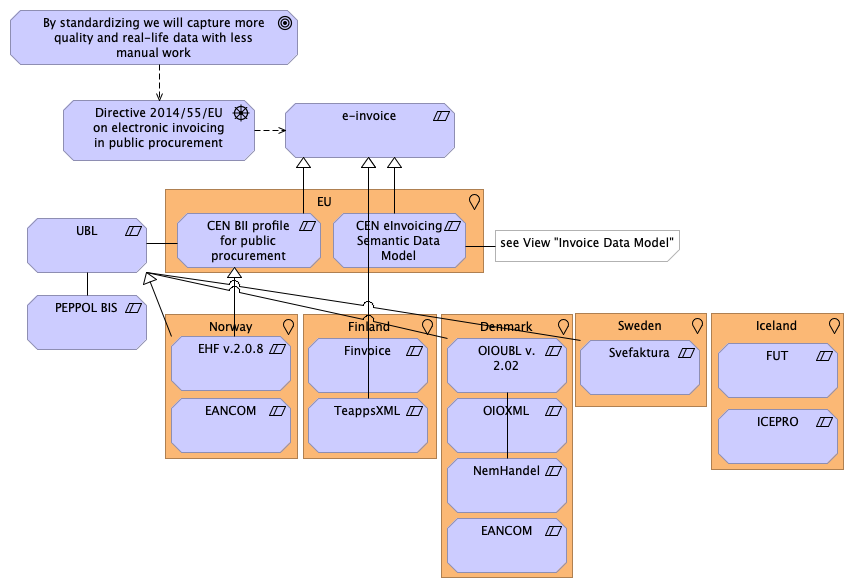
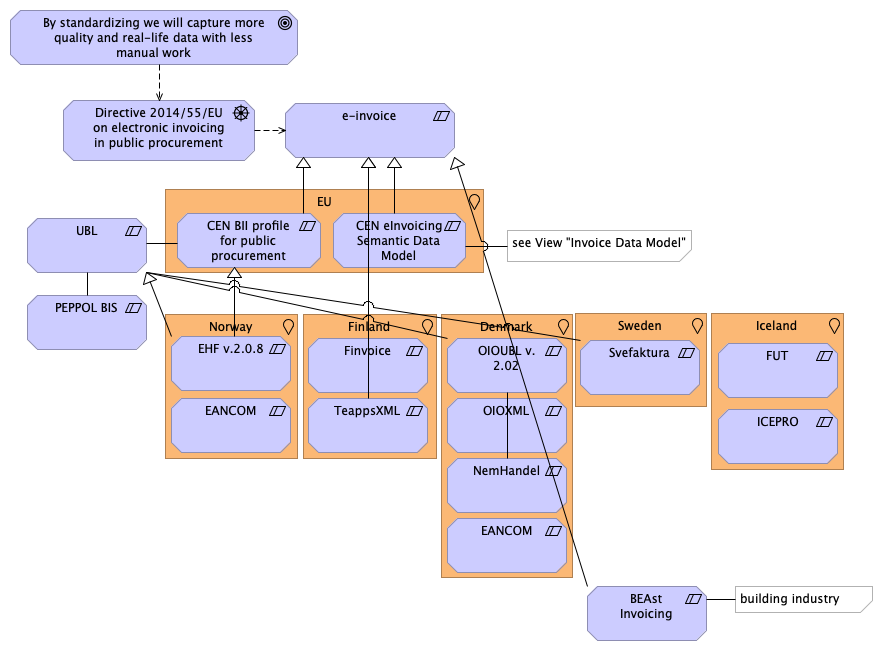
documentation

diff --git a/docs/54e87e47-f01c-49fe-af55-2068f4564bd2/elements/9eea69fc-1468-4fe2-b650-b7767d7006e6.html b/docs/54e87e47-f01c-49fe-af55-2068f4564bd2/elements/9eea69fc-1468-4fe2-b650-b7767d7006e6.html
@@ -1,0 +1,69 @@
+<!DOCTYPE HTML PUBLIC "-//W3C//DTD HTML 4.01 Transitional//EN" "http://www.w3.org/TR/html4/loose.dtd">
+<html class="frame" lang="en">
+<head>
+	<meta http-equiv="Content-Type" content="text/html;charset=utf-8">
+	<title></title>
+
+	<!-- JQUERY (use 1.x branch to be compatible with IE 6/7/8) -->
+	<script type="text/javascript" src="../../lib/jquery/js/jquery-1.11.2.min.js"></script>
+	<!-- BOOTSTRAP -->
+	<link type="text/css" rel="stylesheet" href="../../lib/bootstrap/css/bootstrap-3.3.2.min.css">
+	<link type="text/css" rel="stylesheet" href="../../lib/bootstrap/css/bootstrap-theme-3.3.2.min.css">
+	<script type="text/javascript" src="../../lib/bootstrap/js/bootstrap-3.3.2.min.js"></script>
+	<!-- REPORT SPECIFIC -->
+	<link type="text/css" rel="stylesheet" href="../../css/model.css">
+	<link type="text/css" rel="stylesheet" href="../../css/i18n.css">
+	<script type="text/javascript" src="../../js/frame.js"></script>
+	<script type="text/javascript" src="../../js/imageMapResizer.min.js"></script>
+</head>
+
+<body>
+	<div class="panel panel-default root-panel">
+		<div class="panel-heading root-panel-heading">
+			<b></b>
+			(<span class="i18n-elementtype-SpecializationRelationship"></span>)
+			<a class="glyphicon glyphicon-info-sign" id="hint-SpecializationRelationship" target="hint"></a>
+		</div>
+		<div class="panel-body root-panel-body">
+			<div role="tabpanel">
+				<!-- Nav tabs -->
+				<ul class="nav nav-tabs" role="tablist">
+					<li role="presentation" class="active"><a href="#documentation" aria-controls="documentation" role="tab" data-toggle="tab" class="i18n-documentation"></a></li>
+					<li role="presentation"><a href="#properties" aria-controls="properties" role="tab" data-toggle="tab" class="i18n-properties"></a></li>
+				</ul>
+
+				<!-- Tab panes -->
+				<div class="tab-content">
+					<div role="tabpanel" class="tab-pane active" id="documentation">
+							<br>
+							<b class="i18n-relation-source"></b>
+								<a href="../elements/4c891094-8c89-4ee5-a0bc-986f8c591d68.html" target="element">
+									BEAst Invoicing
+								</a> <br>
+							<b class="i18n-relation-target"></b>
+								<a href="../elements/a016445b-242a-4d4b-9a33-50d37d0fe53c.html" target="element">
+									e-invoice
+								</a> <br>
+							<br>
+						<textarea id="docsrc" style="display:none"></textarea>
+						<div id="doctgt" style="white-space:pre-wrap"></div>
+					</div>
+					<div role="tabpanel" class="tab-pane" id="properties">
+						<table class="table table-striped table-hover table-condensed">
+							<thead>
+								<tr>
+									<th class="i18n-key"></th>
+									<th class="i18n-value"></th>
+								</tr>
+							</thead>
+							<tbody>
+							</tbody>
+						</table>
+					</div>
+			  </div>
+			</div>
+		</div>
+	</div>
+	<script type="text/javascript">imageMapResize();</script>
+</body>
+</html>

diff --git a/docs/54e87e47-f01c-49fe-af55-2068f4564bd2/views/3092fb53-e617-4dbe-ba08-ce4f5f7bc167.html b/docs/54e87e47-f01c-49fe-af55-2068f4564bd2/views/3092fb53-e617-4dbe-ba08-ce4f5f7bc167.html
@@ -57,6 +57,7 @@
 
 						<area shape="rect" coords="711,313,844,470" href="../elements/5abd6042-0bcd-4ad6-8fcd-89901a006e54.html"  target="element">
 						<area shape="rect" coords="10,10,298,65" href="../elements/5dd3c6c5-8486-45f6-9f75-c5362fbdaf09.html"  target="element">
+						<area shape="rect" coords="587,586,707,641" href="../elements/4c891094-8c89-4ee5-a0bc-986f8c591d68.html"  target="element">
 
 			</map>
 			<div role="tabpanel">
@@ -125,6 +126,8 @@
 										
 										<!-- DEBUG: Skipping element from class com.archimatetool.model.impl.DiagramModelNote -->	
 										<tr><td> <a href="../elements/5dd3c6c5-8486-45f6-9f75-c5362fbdaf09.html" target="element"> By standardizing we will capture more quality and real-life data with less manual work </a> </td><td class="i18n-elementtype-Goal"></td></tr>
+										<tr><td> <a href="../elements/4c891094-8c89-4ee5-a0bc-986f8c591d68.html" target="element"> BEAst Invoicing </a> </td><td class="i18n-elementtype-Constraint"></td></tr>
+										<!-- DEBUG: Skipping element from class com.archimatetool.model.impl.DiagramModelNote -->	
 
 							</tbody>
 						</table>

diff --git a/docs/index.html b/docs/index.html
@@ -3117,6 +3117,10 @@
 															<span class="i18n-elementtype-CompositionRelationship"></span>
 														(High level technical questions - Will we have sufficeint actors on board on (cloud) infrastructure in 2025 that makes services realistic ?) 
 													</a></li>
+													<li class="tree-element"><a href="54e87e47-f01c-49fe-af55-2068f4564bd2/elements/9eea69fc-1468-4fe2-b650-b7767d7006e6.html" target="element">
+															<span class="i18n-elementtype-SpecializationRelationship"></span>
+														(BEAst Invoicing - e-invoice) 
+													</a></li>
 
 									</ul>
 								</li>
